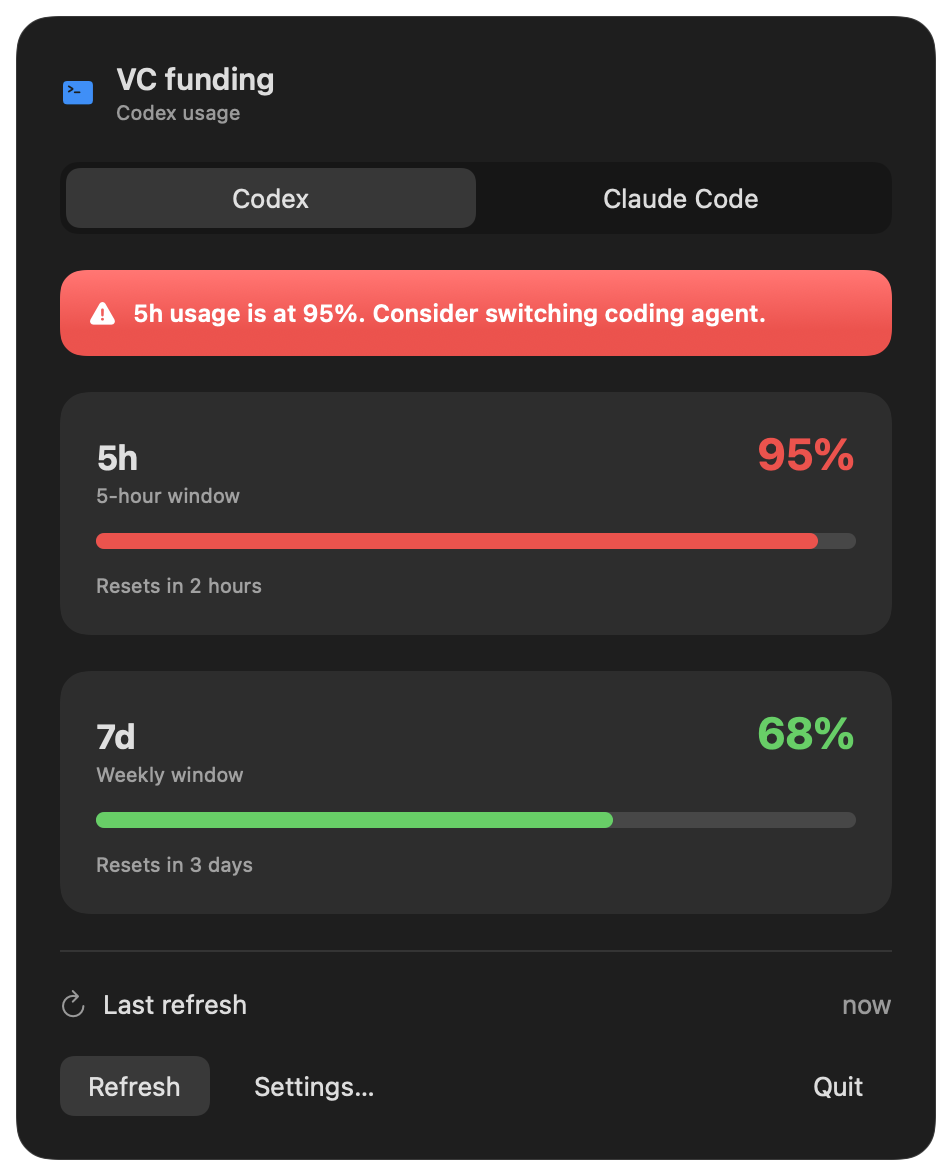
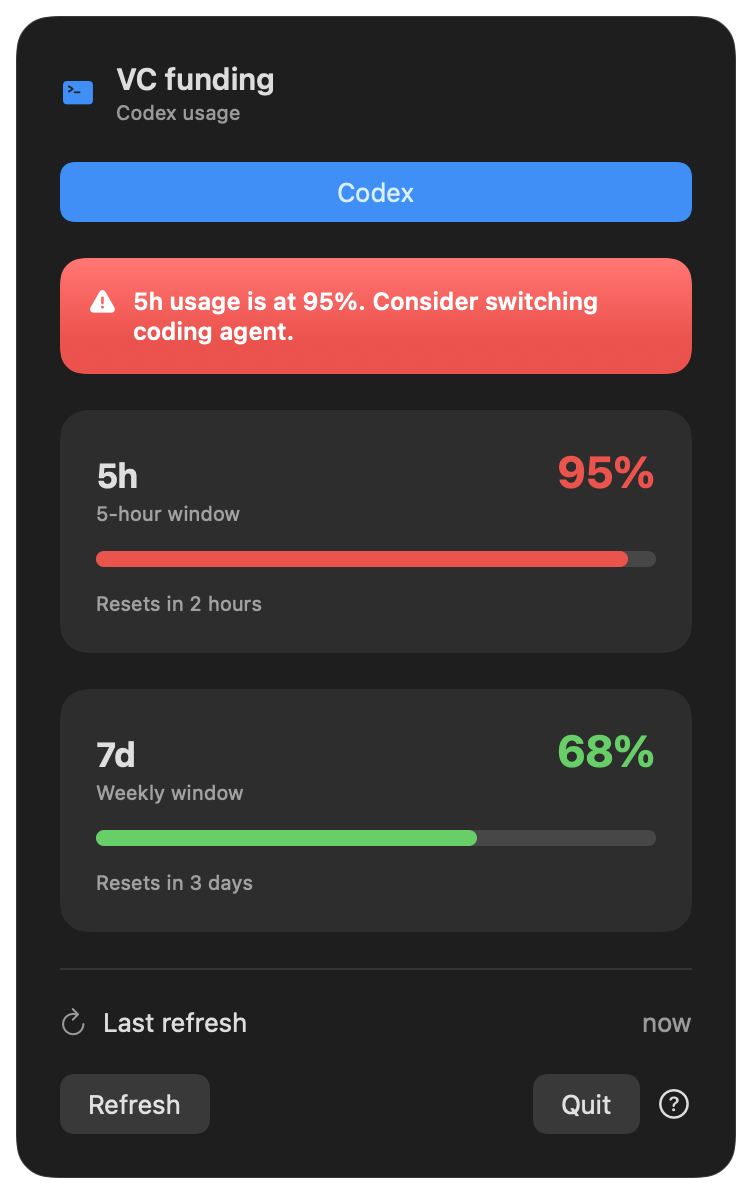
Refresh README screenshots

diff --git a/scripts/render-demo-screenshots.swift b/scripts/render-demo-screenshots.swift
@@ -50,15 +50,15 @@ struct DemoDropdown: View {
                     Text("Codex usage").font(.caption).foregroundStyle(.secondary)
                 }
                 Spacer()
+                if !alert {
+                    Text("💸").font(.title2)
+                }
             }
 
-            HStack(spacing: 0) {
-                Text("Codex").frame(maxWidth: .infinity).padding(7)
-                    .background(Color.white.opacity(0.14), in: RoundedRectangle(cornerRadius: 7))
-                Text("Claude Code").frame(maxWidth: .infinity).padding(7)
-            }
-            .padding(3)
-            .background(Color.black.opacity(0.25), in: RoundedRectangle(cornerRadius: 9))
+            Text("Codex")
+                .frame(maxWidth: .infinity)
+                .padding(7)
+                .background(Color.accentColor, in: RoundedRectangle(cornerRadius: 7))
 
             if alert {
                 Label("5h usage is at 95%. Consider switching coding agent.", systemImage: "exclamationmark.triangle.fill")
@@ -80,13 +80,15 @@ struct DemoDropdown: View {
             HStack {
                 Text("Refresh").padding(.horizontal, 14).padding(.vertical, 7)
                     .background(Color.white.opacity(0.12), in: RoundedRectangle(cornerRadius: 7))
-                Text("Settings…").padding(.horizontal, 14).padding(.vertical, 7)
                 Spacer()
                 Text("Quit").padding(.horizontal, 14).padding(.vertical, 7)
+                    .background(Color.white.opacity(0.12), in: RoundedRectangle(cornerRadius: 7))
+                Image(systemName: "questionmark.circle")
+                    .font(.title3)
             }
         }
         .padding(22)
-        .frame(width: 460)
+        .frame(width: 360)
         .background(Color(nsColor: .windowBackgroundColor))
         .clipShape(RoundedRectangle(cornerRadius: 18))
         .overlay(RoundedRectangle(cornerRadius: 18).stroke(Color.white.opacity(0.12)))
